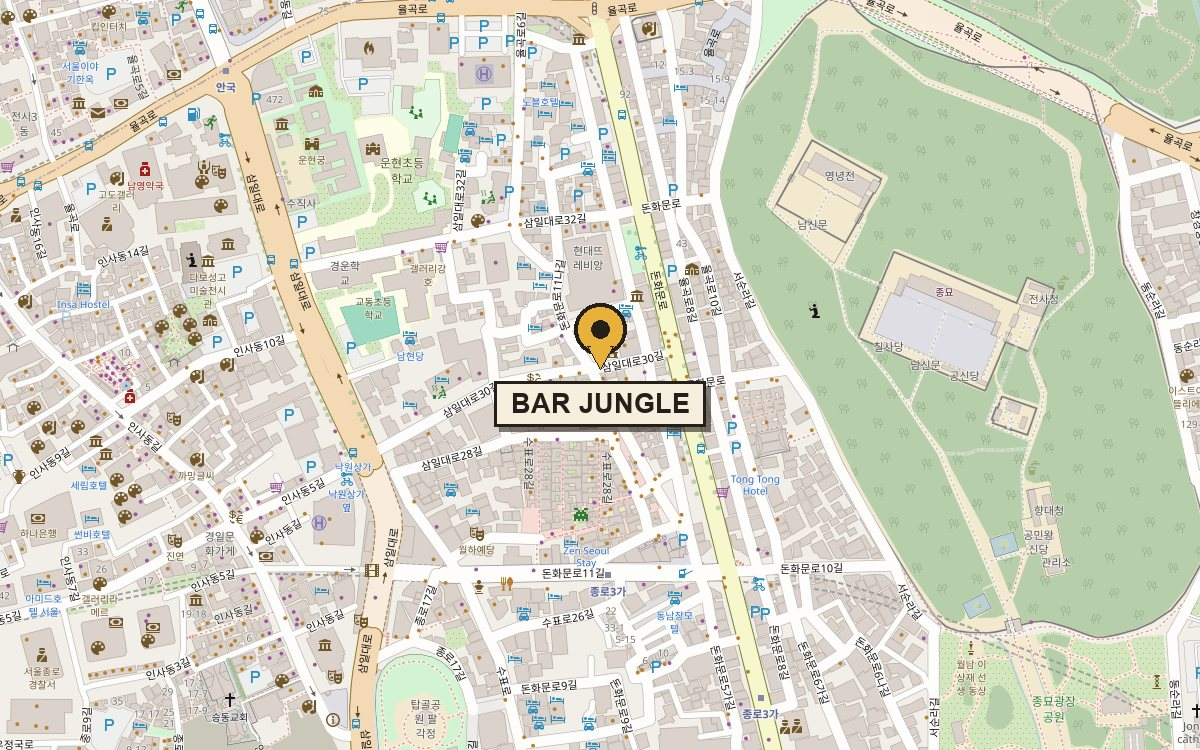
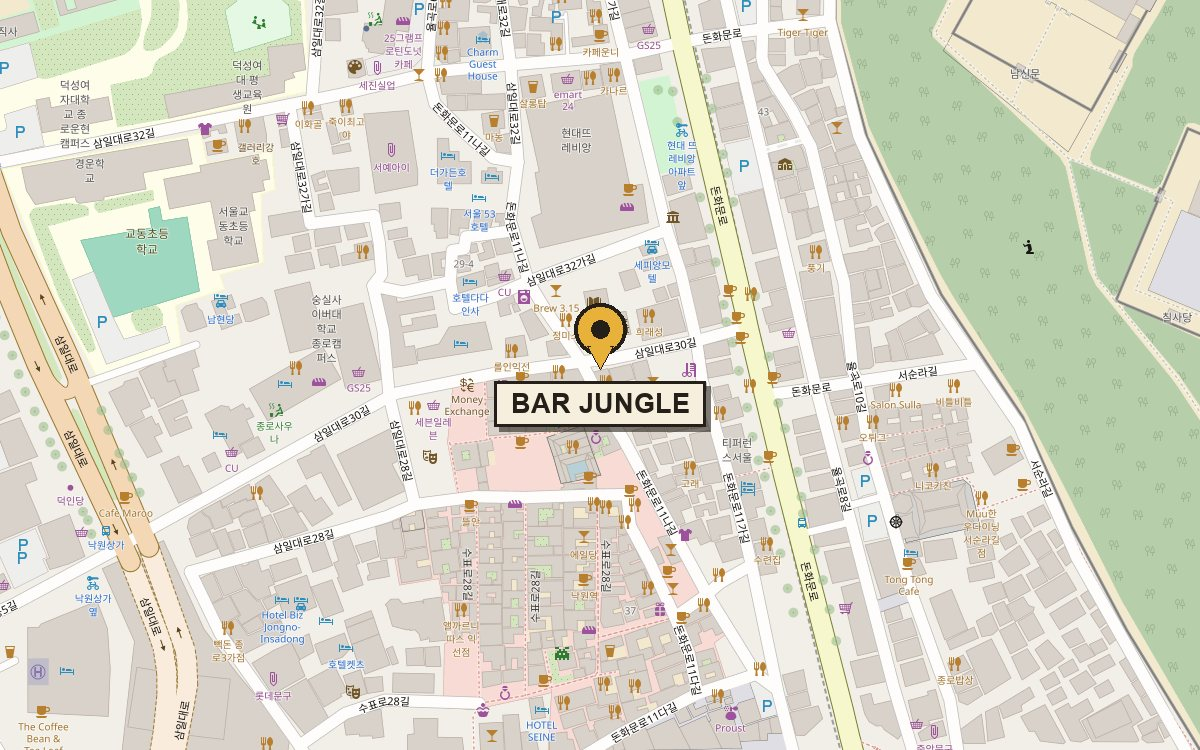
지도 범위를 한 단계 좁힘 (줌 17 → 18)
17·18·19 를 나란히 놓고 골랐다. 19 는 바로 앞 블록만 보여 방향을 잡을
단서가 사라지고, 17 은 종묘까지 들어가 너무 넓었다. 18 은 익선동 골목과
길 이름이 읽히면서 삼일대로·돈화문로로 방향도 잡힌다.

타일이 덜 필요해 용량도 246 → 195KB 로 줄었다.

diff --git a/gnuboard/theme/bar-jungle/head.sub.php b/gnuboard/theme/bar-jungle/head.sub.php
@@ -32,7 +32,7 @@ if (!preg_match('#^https?://#i', G5_URL)) {
 }
 $jungle_base   = rtrim($jungle_origin.G5_URL, '/');
 $jungle_og     = $jungle_origin.G5_THEME_URL.'/img/og.jpg';
-$jungle_ver    = '1.0.28';
+$jungle_ver    = '1.0.29';
 ?>
 <!doctype html>
 <html lang="ko">
